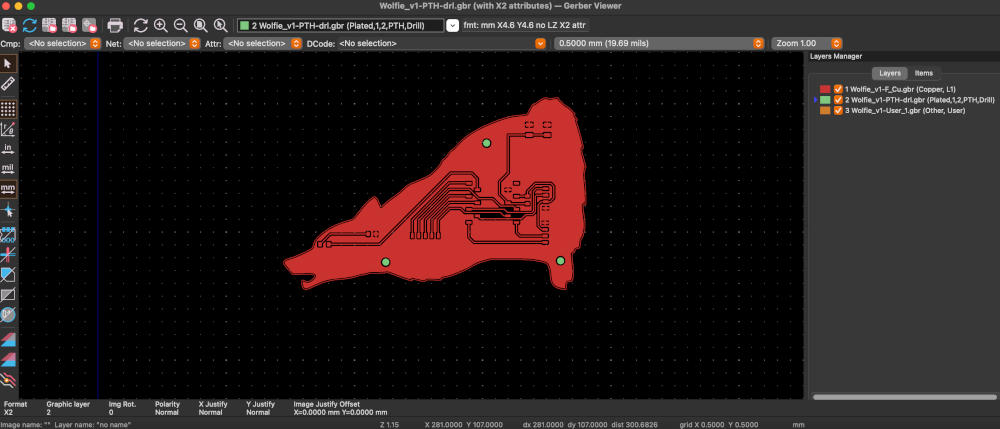
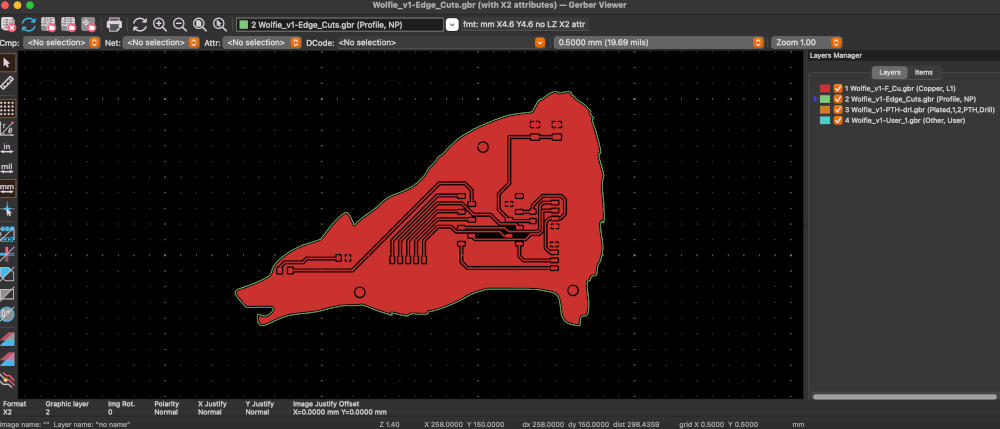
Updated media and text.

diff --git a/07_electronics-design.html b/07_electronics-design.html
@@ -25,7 +25,7 @@
                             <figcaption>The Wolf circuit board I designed for this week.</figcaption>
                     </figure> -->
                     <h2>My Approach to Electronics Design</h2>
-                        <p>In many ways, electronics design relates directly to my practice, as I have been long interested in building my own equipment. I am mostly interested in building audio-related tools, such as synthesizer modules, standalone instruments and electric guitar equipment, but also see many possibilities in other things I do – such as building art installations. The know-how of designing and building electronics is really beneficial for me, especially when done using EDA software like KiCad. The possibility to design and draw my own schematics and PCB layout digitally saves me time, helps me to be more intentional and allow me to design circuit boards that are easily reproduceable. It also allows me to produce more professional and reliable boards (when comparing to stripboard or perfboard), that will hopefully serve as well-functioning tools for many years after first put together.</p>
+                        <p>In many ways, electronics design relates directly to my practice, as I have been long interested in building my own equipment. I am mostly interested in building audio-related tools, such as synthesizer modules, standalone instruments and electric guitar equipment, but also see many possibilities in other things I do – like building art installations. The know-how of designing and building electronics is really beneficial for me, especially when done using EDA software like KiCad. The possibility to design and draw my own schematics and PCB layout digitally saves me time, helps me to be more intentional and allow me to design circuit boards that are easily reproduceable. It also allows me to produce more professional and reliable boards (when comparing to stripboard or perfboard), that will hopefully serve as well-functioning tools for many years after first put together.</p>
                     <h2>My Design</h2>
                         <figure>
                             <img src="Media/07 Electronics Design/circuit.jpg" alt="A screenshot of the circuit schematics.">
@@ -41,7 +41,7 @@
                             <img src="Media/07 Electronics Design/netclasses.jpg" alt="A screenshot of the net classes window.">
                             <figcaption>The Net Class values used. The values for Clearance, Track Width, Via Size and Hole Size were relevant for this assignment.</figcaption>
                         </figure>
-                        <p>KiCad’s PCB editor organizes different kinds of PCB information into layers. I started planning the layout by importing a public domain wolf drawing I had prepared in Inkscape to the Edge Cuts layer. This layer defines the outline of the board. I then updated the PCB from schematic and started moving the individual components around, trying to find a layout with the least amount of crossing rat’s nests (the dim lines showing connections between parts). When I had found a layout I was happy with, I drew the track connections (excluding the grounds) to the Front Copper layer, which contains all copper features of the front side of the PCB. I then filled the rest of the board’s front face with copper, using the filled area as the ground. This simplifies the process of drawing the ground connections, and acts as a shielding for the circuit. Finally, I added a name and version number as a text to the general-purpose User Layer 1.</p>
+                        <p>KiCad’s PCB editor organizes different kinds of PCB information into layers. I started planning the layout by importing a public domain wolf drawing I had prepared in Inkscape to the Edge Cuts layer. This layer defines the outline of the board. I then updated the PCB from schematic and started moving the individual components around, trying to find a layout with the least amount of crossing rat’s nests (the dim lines showing connections between parts). When I had found a layout I was happy with, I drew the track connections (excluding the grounds) to the Front Copper layer, which contains all copper features of the PCB’s front side. I then filled the rest of the board’s front face with copper, using the filled area as the ground. This simplifies the process of drawing the ground connections, and acts as a shielding for the circuit. Finally, I added a name and version number as a text to the general-purpose User Layer 1.</p>
                         <figure>
                             <img src="Media/07 Electronics Design/layout.jpg" alt="A screenshot of the final PCB layout.">
                             <figcaption>The PCB layout of Wolfie v1.</figcaption>
@@ -50,7 +50,7 @@
                             <img src="Media/07 Electronics Design/DRC.jpg" alt="A screenshot of the Design Rules Checker.">
                             <figcaption>Passing the Design Rules Checker.</figcaption>
                         </figure>
-                        <p>After passing the Design Rules Checker, I exported the individual layers as Gerber files for PCB milling process at the Fablab. In KiCad’s Plot window, I used Gerber as plot format, and included Front Copper and User 1 layers to the export. To help the layer alignment process later in CopperCam, I included Edge Cuts on all layers as an outline. After plotting the layers, I generated the Drill Files using Gerber X2 format. As a final step, I used KiCad’s Gerber Viewer to check the files had formatted as intented.</p>
+                        <p>After passing the Design Rules Checker, I exported the individual layers as Gerber files for PCB milling process at the Fablab. In KiCad’s Plot window, I used Gerber as plot format, and included Front Copper, Edge Cuts and User 1 layers to the export. To help the layer alignment process later in CopperCam, I included Edge Cuts on all layers as an outline. After plotting the layers, I generated the Drill Files using Gerber X2 format. As a final step, I used KiCad’s Gerber Viewer to check the files had formatted as intented.</p>
                         <figure>
                             <img src="Media/07 Electronics Design/gerber_plot.jpg" alt="A screenshot of KiCAD's plot window.">
                             <figcaption>The settings used for plotting the Gerber files.</figcaption>
